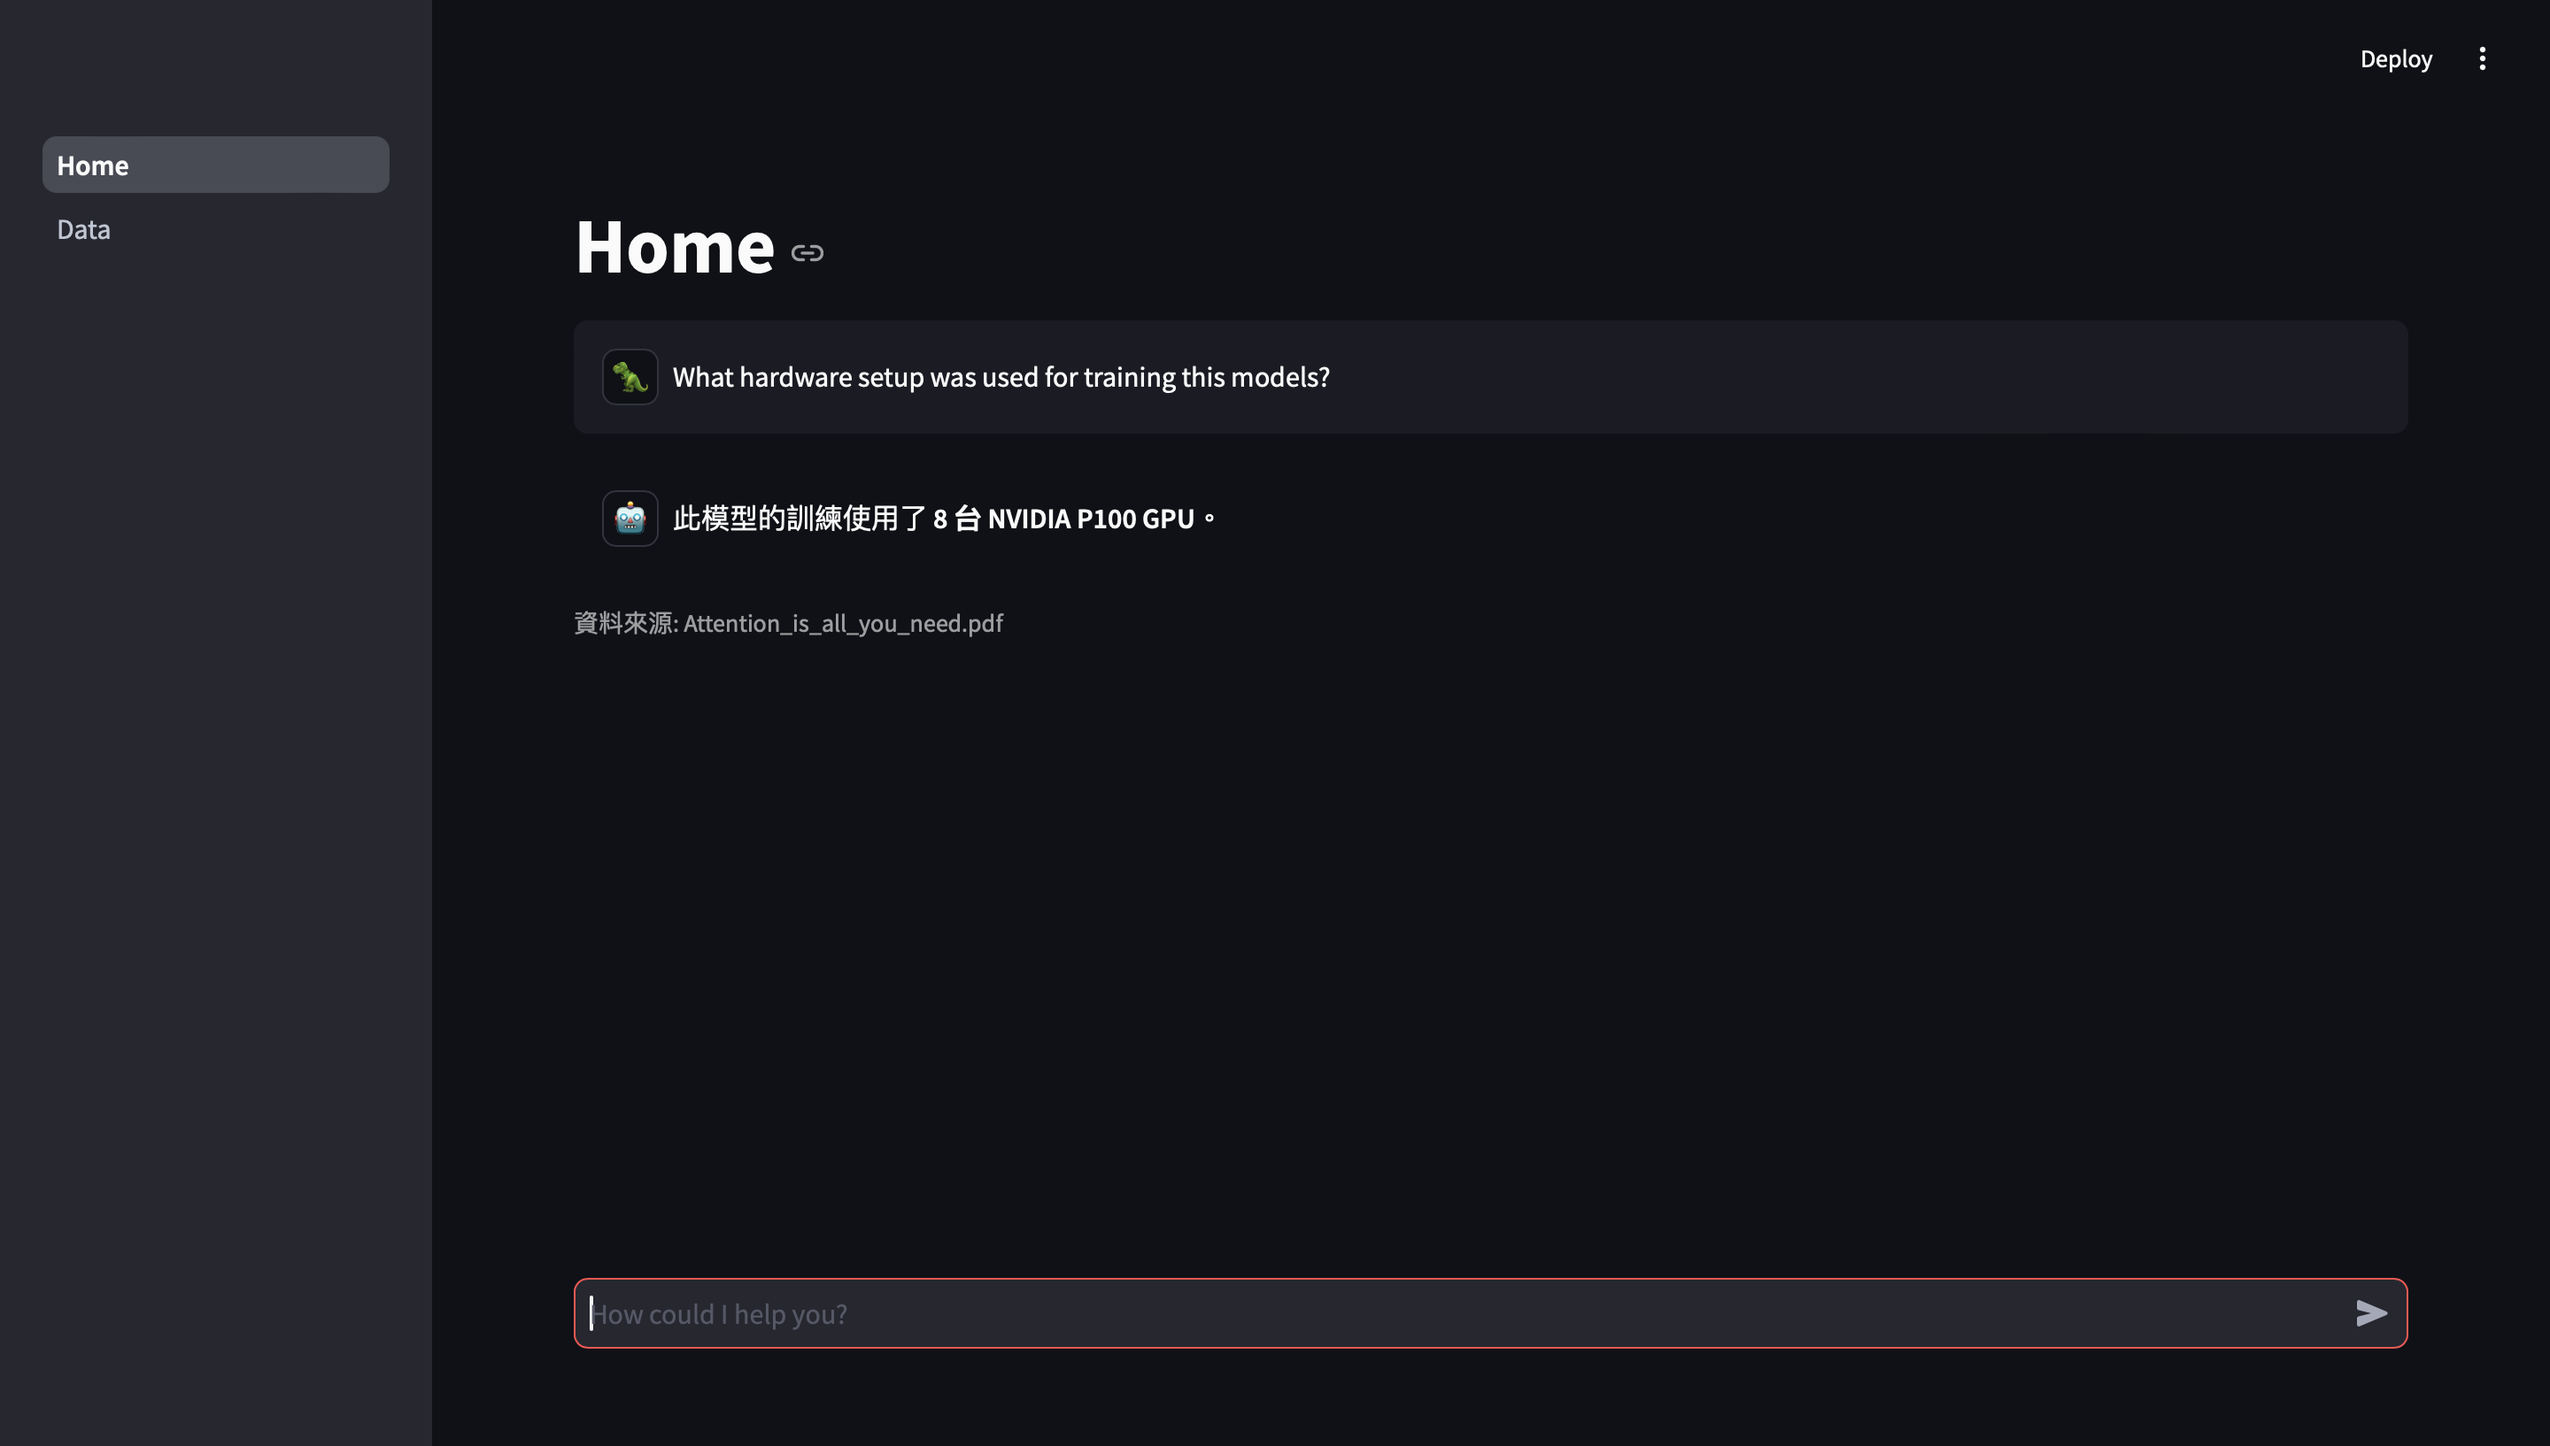
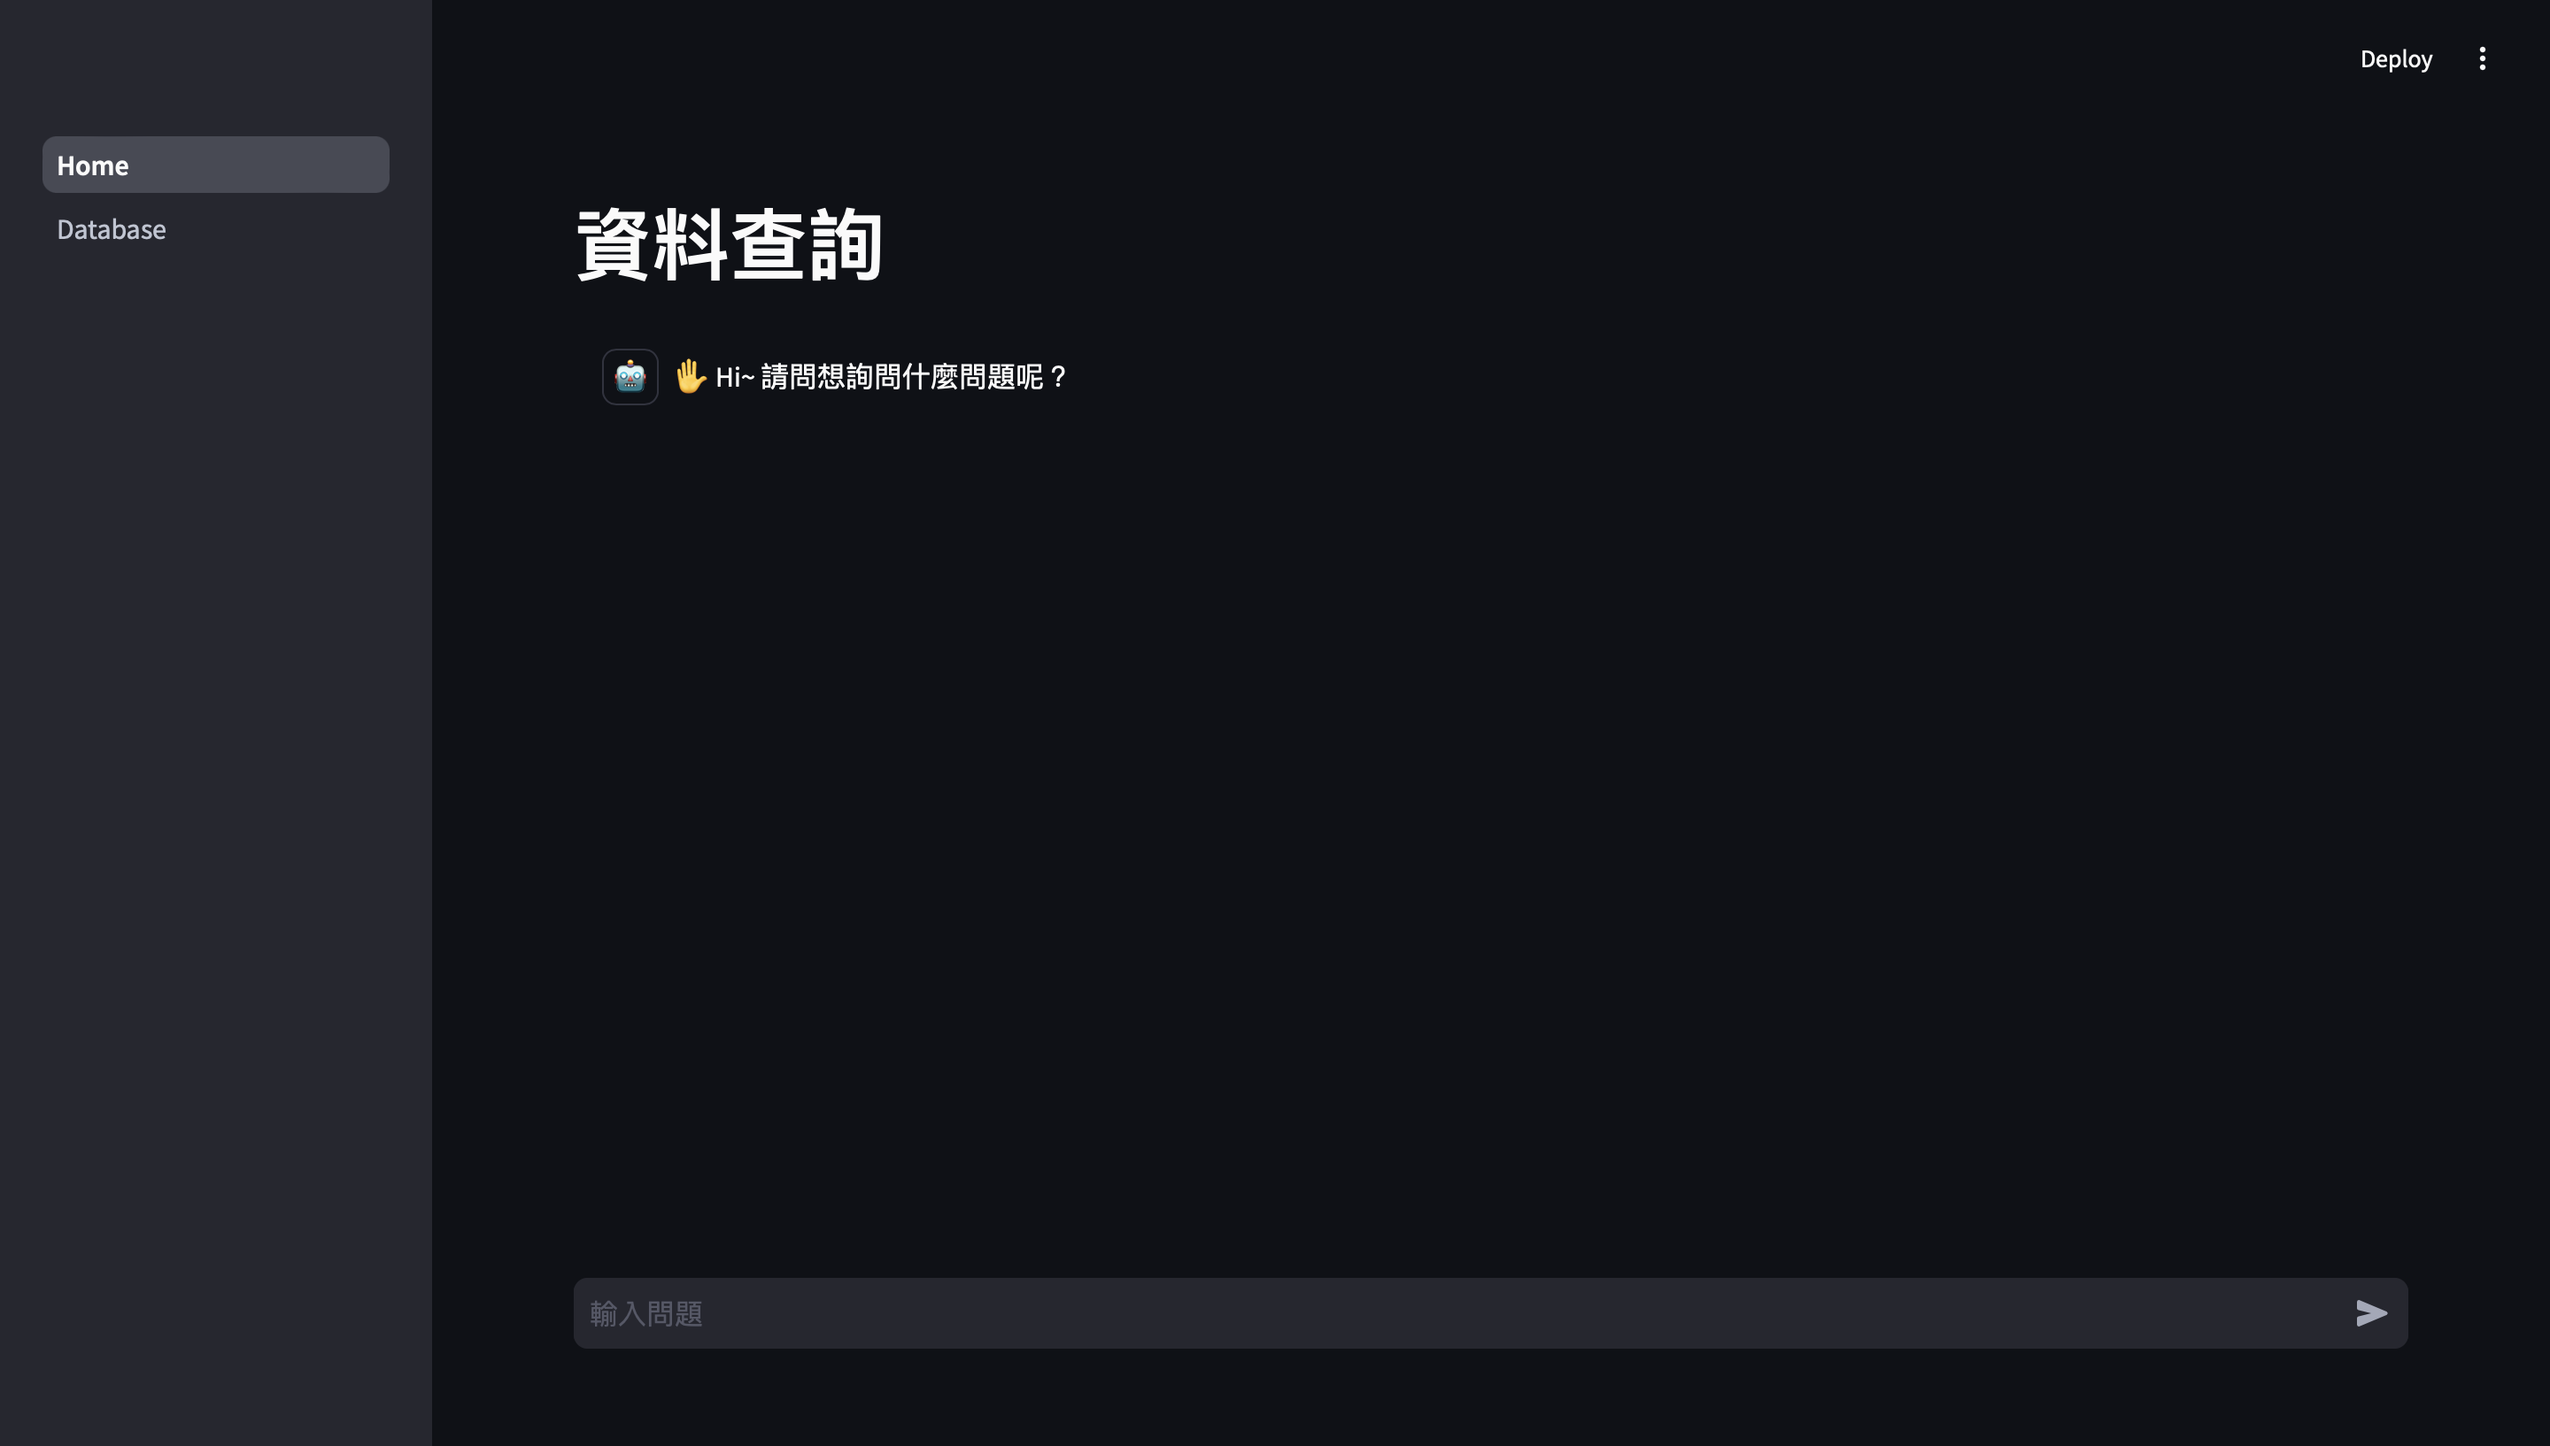
2024/09/22
更新Home.py的title
將Data.py改名為Database.py，請修改了網頁標題
新增了資料大小(size)的欄位
新增了資料庫已有資料時的歡迎訊息

diff --git a/Home.py b/Home.py
@@ -28,17 +28,20 @@ DatabaseController = DatabaseController(database)
 
 st.set_page_config(layout="wide")
 
-help_info = "👈 Hi~ 資料庫是空的，請先到Data頁面點選上傳資料。"
-
 if "messages" not in st.session_state:
     st.session_state.messages = [{"role": "system", "content": "使用繁體中文回答問題", "source": None}]
 
-if len(DatabaseController.calculate_existing_ids()) == 0:
-    st.session_state.messages.append({"role": "assistant", "content": help_info, "source": None})
+    if len(DatabaseController.calculate_existing_ids()) == 0:
+        info = "👈 Hi~ 資料庫是空的，請先到Data頁面點選上傳資料。"
+        st.session_state.messages.append({"role": "assistant", "content": info, "source": None})
+
+    else:
+        info = "✋ Hi~ 請問想詢問什麼問題呢？"
+        st.session_state.messages.append({"role": "assistant", "content": info, "source": None})
 
 #=============================================================================#
 
-st.title("Home")
+st.title("資料查詢")
 
 #-----------------------------------------------------------------------------#
 
@@ -57,7 +60,7 @@ for message in st.session_state.messages[1:]:
 
 #-----------------------------------------------------------------------------#
 
-if question := st.chat_input("How could I help you?"):
+if question := st.chat_input("輸入問題"):
 
     with st.chat_message("user", avatar="🦖"):
         st.markdown(question)

diff --git a/pages/Database.py b/pages/Database.py
@@ -31,8 +31,14 @@ event_config = {
         width="small"
     ),
     "page": st.column_config.TextColumn(
-        "頁數", 
-        help="資料頁數", 
+        "總頁數", 
+        help="資料總頁數", 
+        max_chars=100, 
+        width="small"
+    ),
+    "size": st.column_config.TextColumn(
+        "大小", 
+        help="資料大小", 
         max_chars=100, 
         width="small"
     ),
@@ -61,13 +67,13 @@ selected_config = {
 
 #=============================================================================#
 
-st.header("PDF")
+st.title("資料庫")
 
 files = st.file_uploader(
     "Upload a PDF file", 
     type="pdf", 
     accept_multiple_files=True, 
-    label_visibility="hidden"
+    label_visibility="hidden",
     )
 
 col1, col2 = st.columns([9,1])
@@ -78,7 +84,7 @@ if col2.button("更新"):
 
 df = DatabaseController.database_to_dataframes()
 
-df_event = df.loc[df.groupby('source')['page'].idxmax(), ['source', 'page']]
+df_event = df.loc[df.groupby('source')['page'].idxmax(), ['source', 'page', 'size']]
 
 event = col1.dataframe(
     df_event,
@@ -94,6 +100,8 @@ select_id = event.selection.rows
 df_selected = df_event.iloc[select_id][['source']]
 
 df_result = df.merge(df_selected, on='source')
+
+st.divider()
 
 st.dataframe(
     df_result[['source', 'page', 'documents']],

diff --git a/database_controller.py b/database_controller.py
@@ -35,11 +35,12 @@ class DatabaseController():
 
         df = pd.DataFrame({
             'ids'       : data['ids'],
-            'page'      : [meta['page'] for meta in data['metadatas']],  # 展開 metadatas 中的 page
-            'source'    : [meta['source'] for meta in data['metadatas']],  # 展開 metadatas 中的 source
+            'page'      : [meta['page'] for meta in data['metadatas']],
+            'source'    : [meta['source'] for meta in data['metadatas']],
+            'size'      : [meta['size'] for meta in data['metadatas']],
             'documents' : data['documents']
         })
-        
+
         return df
 
 #-----------------------------------------------------------------------------#
@@ -58,7 +59,9 @@ class DatabaseController():
 
             content = pdf.pages[page].extract_text()
 
-            documents = self.text_splitter.create_documents([content], [{"source":pdf.stream.name, "page":page}])
+            metadata = {"source":pdf.stream.name, "page":page, "size":pdf.stream.size}
+
+            documents = self.text_splitter.create_documents([content], [metadata])
 
             ids = [str(uuid.uuid4()) for _ in range(len(documents))]
 
